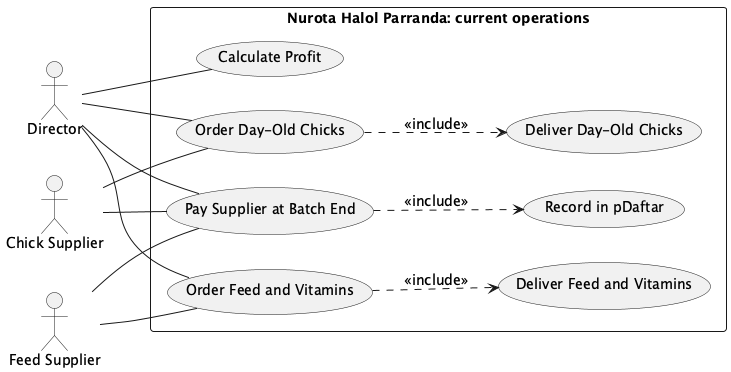
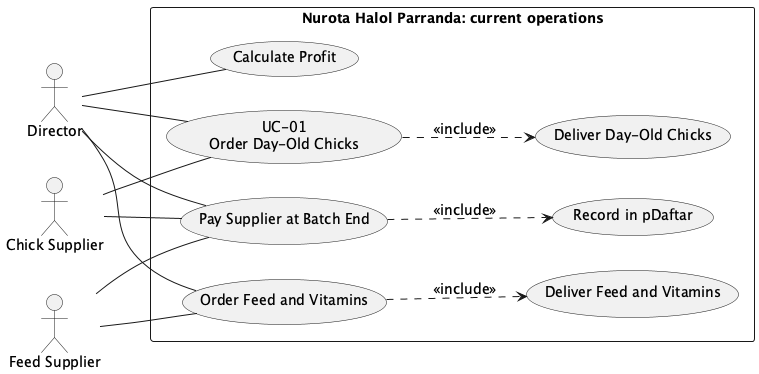
Trim use case diagram text and label tabled use cases
Keep only the split, boundary and driver decisions in section 2, and show
UC-01 to UC-04 on their ovals so the diagram traces to the section 3 tables.

diff --git a/2-use-case-diagram.md b/2-use-case-diagram.md
@@ -58,9 +58,3 @@ The three figures are one diagram, split by stage of a batch under one boundary.
 ![Use case diagram, part 3: slaughter and sales](diagrams/use-case-slaughter-sales.png)
 
 *Figure 2.3: Use case diagram, part 3 of 3: slaughter and sales (as-is)*
-
-- **The two records never meet.** Rearing writes only to the notebook, and money only to pDaftar. Calculate Profit reads only pDaftar, which pools figures rather than splitting them by batch (section 1), so no batch's profit can be set against its deaths and feed use.
-- **One person holds every decision.** The Director is linked to 16 of the 26 use cases, as owner, production manager and bookkeeper at once. The slaughter date, the butcher's head count and the agent's price per kg all rest on his judgement or a verbal agreement.
-- **Pay and sales use different units.** The butcher is paid per head and every buyer pays per kilogram, with no record linking the two, so the slaughter cost per kilogram sold is unknown.
-- **Costs are settled late.** Pay Supplier at Batch End is separate from ordering because chick and feed bills fall due when the batch ends, by which point the meat has normally been sold.
-- **The only check on an outsider has no owner.** Record Bazaar Weighings is the one documented point where the farm keeps its own copy of an outsider's figure, and its actor, the Trusted Representative, can be anyone the Director trusts.
